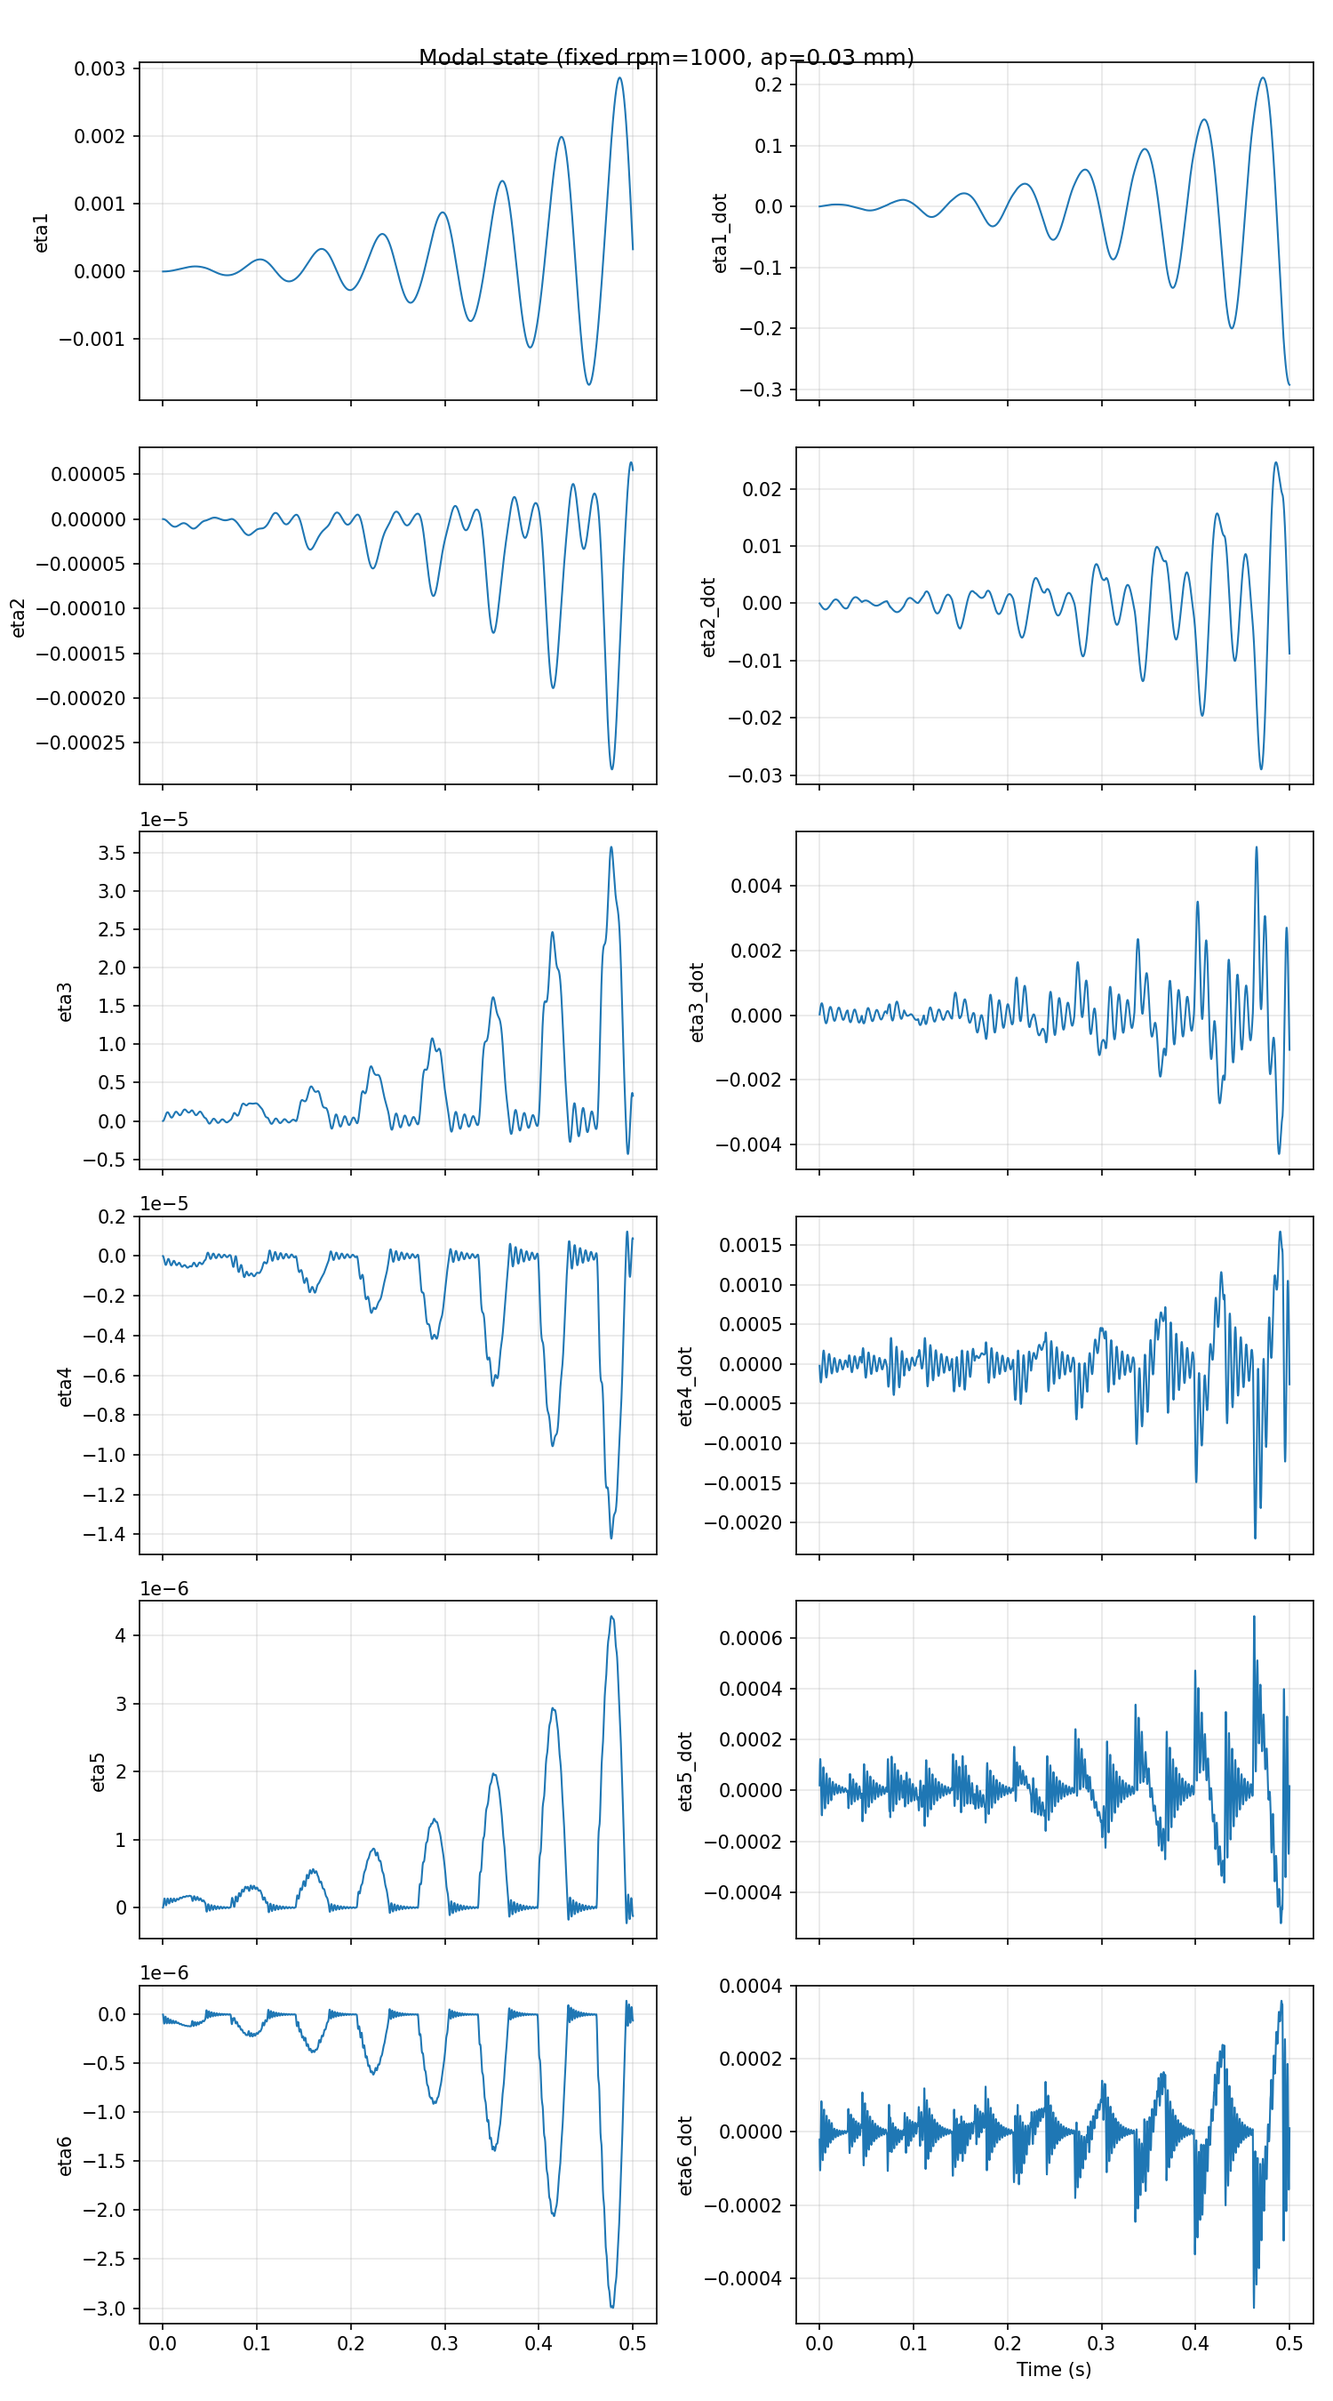
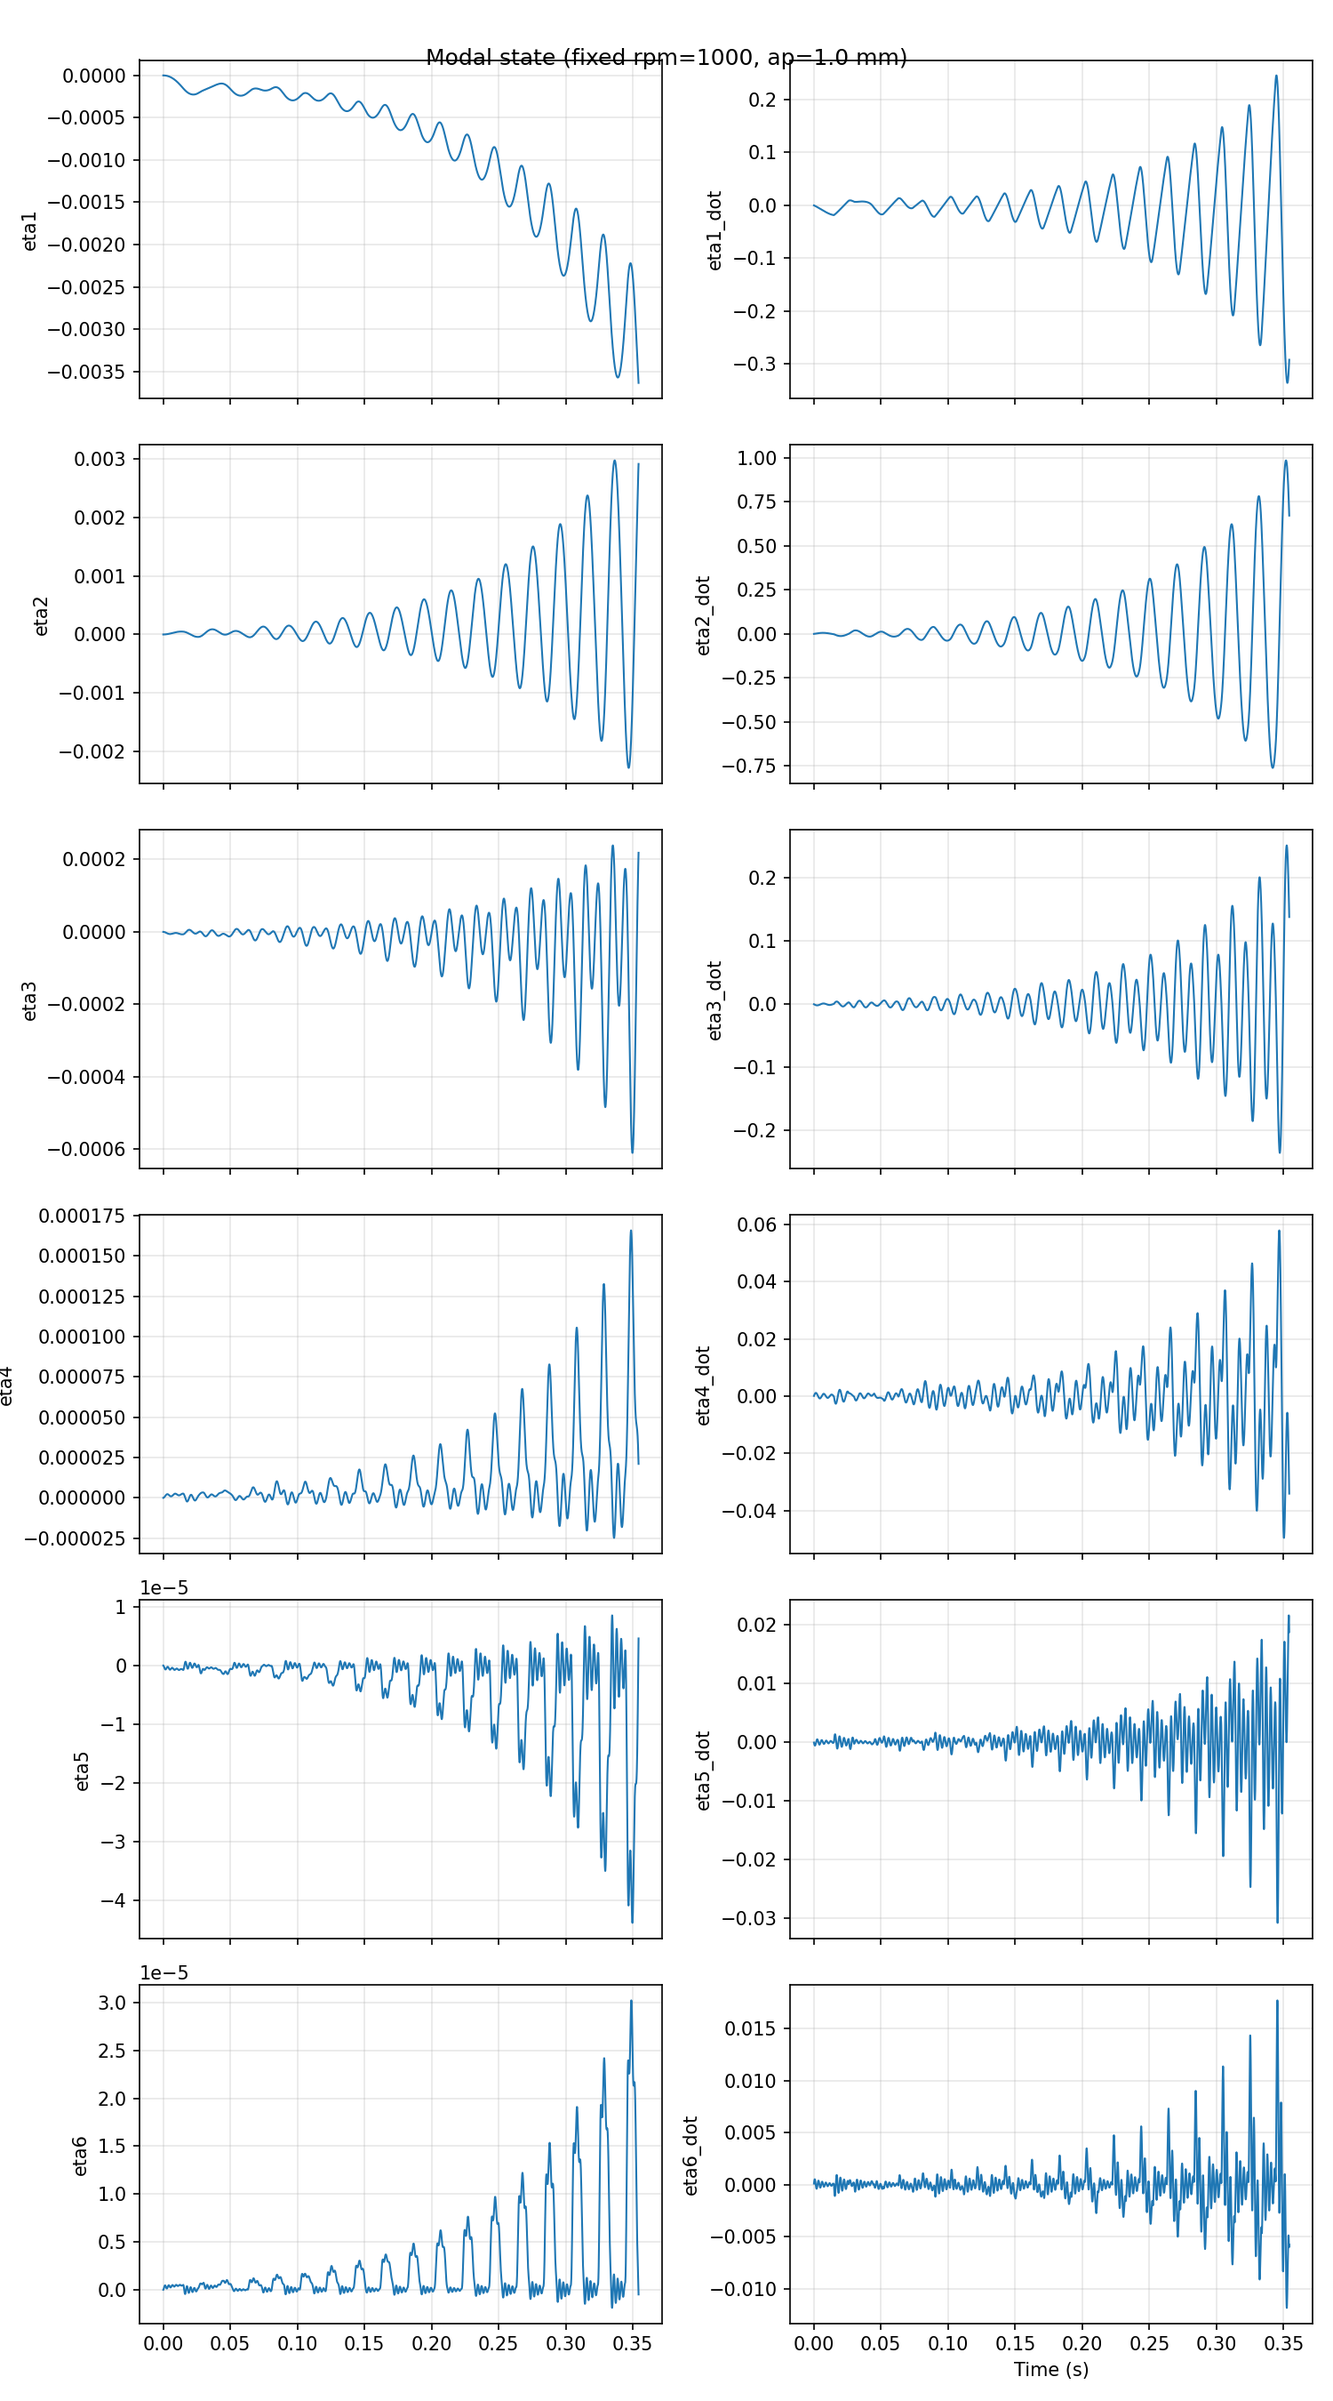
Update ODEControlEnv and PlatePlant for improved observation handling and dynamics
- Changed the clipping behavior in ODEControlEnv's modal_to_physical method to allow unbounded sensor outputs.
- Enhanced PlatePlant's observation structure to include normalized cutter position coordinates, improving the agent's state representation.
- Updated registration and evaluation scripts to reflect changes in observation handling and ensure compatibility with new physical sensor outputs.
- Adjusted parameters in PlatePlant for better milling dynamics, including modifications to feed per tooth and axial depth of cut settings.

diff --git a/custom_rl/plants/plate.py b/custom_rl/plants/plate.py
@@ -151,7 +151,12 @@ class PlatePlant(ODEPlant):
         x_modal = [eta1, eta1_dot, eta2, eta2_dot, ..., etaK, etaK_dot]
 
     Agent observation
-        [w_sensor / w_obs_scale, wdot_sensor / wdot_obs_scale]
+        [
+            w_sensor / w_obs_scale,
+            wdot_sensor / wdot_obs_scale,
+            cutter_x / L1,
+            cutter_y / L2,
+        ]
 
     Default normalized action
         u = [u_omega, u_ap] in [-1, 1]^2
@@ -170,9 +175,9 @@ class PlatePlant(ODEPlant):
         L1: float = 1.0,
         L2: float = 1.0,
         h: float = 0.02,
-        E: float = 113.8e9,
-        nu: float = 0.34,
-        rho: float = 4430.0,
+        E: float = 71.7e9,
+        nu: float = 0.33,
+        rho: float = 2810.0,
         rho_type: str = "volumetric",
         m_max: int = 3,
         n_max: int = 2,
@@ -180,7 +185,7 @@ class PlatePlant(ODEPlant):
         omega_min: float = OMEGA_MIN_RAD_S,
         omega_max: float = OMEGA_MAX_RAD_S,
         ap_min: float = 0.0,
-        ap_max: float = 1,
+        ap_max: float = 20
         ae_min: float = 1.0,
         ae_max: float = 50.0,
         ae_default: float = 25.0,
@@ -191,22 +196,24 @@ class PlatePlant(ODEPlant):
         gamma_r_deg: float = 5.0,
         gamma_a_deg: float = 5.0,
         eta_c_deg: float = 0.0,
-        # Force coefficients [N/mm^2].  Ka=4790.9 is the value identified in
-        # the uploaded thin-wall face-milling paper for Ti-6Al-4V.  Kt/Kr must
-        # be experimentally identified for a full 3D force diagnostic; they are
-        # zero by default because the present scalar plate projection uses Fz.
-        Kt: float = 0.0,
-        Kr: float = 0.0,
-        #Ka: float = 4790.9,
-        Ka: float = 4790.9,
-        Kte: float = 0.0,
-        Kre: float = 0.0,
-        #Kae: float = 360.6,
-        Kae: float = 360.6,
+        # AL7075 face-milling coefficients for square inserts.
+        # Units follow f_nonlinear2_face_milling:
+        #   Kt, Kr, Ka     [N/mm^2]
+        #   Kte, Kre, Kae  [N/mm]
+        # The signs are kept from the identified local force convention.
+        # With the current scalar plate projection mode, only Fz=Fa is projected
+        # into the modal plate equation, so Ka/Kae directly set the transverse
+        # excitation direction and magnitude.
+        Kt: float = 538.127,
+        Kr: float = 185.967,
+        Ka: float = -691.297,
+        Kte: float = 11.253,
+        Kre: float = 6.991,
+        Kae: float = -32.971,
         milling_mode: str = "up",
         theta0: float = 0.0,
-        use_process_damping: bool = True,
-        Ksp: float | None = 30000.0,
+        use_process_damping: bool = False,
+        Ksp: float | None = None,
         mu: float = 0.3,
         VB: float = 0.08,
         lambda_L_deg: float | None = 45.0,
@@ -311,7 +318,11 @@ class PlatePlant(ODEPlant):
         # ------------------------------------------------------------------
         self.sensor_points = tuple((float(xs), float(ys)) for xs, ys in sensor_points)
         self.n_sensors = len(self.sensor_points)
-        self.obs_dim = 2 * self.n_sensors
+        # Observation = physical sensor displacement/velocity plus normalized
+        # cutter location.  The path coordinates are part of the state observed
+        # by the agent because the face-milling excitation and modal projection
+        # depend on where the cutter is on the plate.
+        self.obs_dim = 2 * self.n_sensors + 2
 
         self.w_limit = float(w_limit)
         self.w_obs_scale = float(w_obs_scale)
@@ -629,10 +640,24 @@ class PlatePlant(ODEPlant):
         """Return scaled physical observation for the RL agent."""
         return self.state_to_obs(x_modal)
 
+    def _normalized_cutter_position_obs(self) -> np.ndarray:
+        """Return [cutter_x/L1, cutter_y/L2] from accepted pass kinematics."""
+        cutter_x = self.L1 - self._feed_distance_m - self.x0_cutter
+        cutter_x = float(np.clip(cutter_x, 0.0, self.L1))
+        cutter_y = float(np.clip(self.y_cutter, 0.0, self.L2))
+
+        x_norm = cutter_x / max(self.L1, 1e-12)
+        y_norm = cutter_y / max(self.L2, 1e-12)
+        return np.asarray([x_norm, y_norm], dtype=np.float64)
+
     def state_to_obs(self, x: np.ndarray) -> np.ndarray:
         w_sensor, wdot_sensor = self.modal_to_physical(x)
         obs = np.concatenate(
-            [w_sensor / self.w_obs_scale, wdot_sensor / self.wdot_obs_scale]
+            [
+                w_sensor / self.w_obs_scale,
+                wdot_sensor / self.wdot_obs_scale,
+                self._normalized_cutter_position_obs(),
+            ]
         )
         return np.asarray(obs, dtype=np.float64)
 
@@ -798,8 +823,16 @@ class PlatePlant(ODEPlant):
 
         low[: self.n_sensors] = -self.w_limit / self.w_obs_scale
         high[: self.n_sensors] = self.w_limit / self.w_obs_scale
-        low[self.n_sensors :] = -self.wdot_limit / self.wdot_obs_scale
-        high[self.n_sensors :] = self.wdot_limit / self.wdot_obs_scale
+        low[self.n_sensors : 2 * self.n_sensors] = (
+            -self.wdot_limit / self.wdot_obs_scale
+        )
+        high[self.n_sensors : 2 * self.n_sensors] = (
+            self.wdot_limit / self.wdot_obs_scale
+        )
+
+        # Normalized cutter coordinates [cutter_x/L1, cutter_y/L2].
+        low[2 * self.n_sensors :] = 0.0
+        high[2 * self.n_sensors :] = 1.0
 
         return spaces.Box(low=low, high=high, shape=(self.obs_dim,), dtype=np.float64)
 

diff --git a/custom_rl/eval/pipeline.py b/custom_rl/eval/pipeline.py
@@ -16,7 +16,7 @@ where ``omega`` is spindle speed [rad/s] and ``ap`` is axial depth of cut [mm].
 
 The radial immersion/depth ``ae`` is a fixed process parameter by default.  In
 our current face-milling plant this is ``plant.ae_default``; with the default
-D=50 mm and ae_default=25 mm, this gives ae/D = 0.5 half-immersion milling.
+D=63 mm and ae_default=28 mm, this gives ae/D ≈ 0.444 partial-immersion milling.
 Only when the plant is created with ``control_ae=True`` does the action become::
 
     [omega_rad_s, ap_mm, ae_mm]
@@ -188,8 +188,11 @@ def plant_plot_metadata(env) -> dict[str, Any]:
         "step_dt": float(base_env._step_dt),
         "max_episode_steps": int(base_env.max_episode_steps),
         # Observation convention
-        "observation_type": "scaled_physical_sensor_disp_vel",
-        "observation_description": "[w_sensor/w_obs_scale, wdot_sensor/wdot_obs_scale]",
+        "observation_type": "scaled_physical_sensor_disp_vel_and_normalized_path",
+        "observation_description": (
+            "[w_sensor/w_obs_scale, wdot_sensor/wdot_obs_scale, "
+            "cutter_x/L1, cutter_y/L2]"
+        ),
         "n_sensors": int(getattr(plant, "n_sensors", 0)),
         "sensor_points_m": np.asarray(
             getattr(plant, "sensor_points", []),
@@ -215,6 +218,9 @@ def plant_plot_metadata(env) -> dict[str, Any]:
         "L1_m": _safe_float(getattr(plant, "L1", np.nan)),
         "L2_m": _safe_float(getattr(plant, "L2", np.nan)),
         "h_m": _safe_float(getattr(plant, "h", np.nan)),
+        "E_Pa": _safe_float(getattr(plant, "E", np.nan)),
+        "nu": _safe_float(getattr(plant, "nu", np.nan)),
+        "modal_damping_ratio": _safe_float(getattr(plant, "modal_damping_ratio", np.nan)),
         "rho_input": _safe_float(getattr(plant, "rho", np.nan)),
         "rho_type": str(getattr(plant, "rho_type", "auto")),
         "rho_areal_kg_m2": _safe_float(getattr(plant, "rho_areal", np.nan)),
@@ -234,6 +240,10 @@ def plant_plot_metadata(env) -> dict[str, Any]:
         "Kte_N_mm": _safe_float(getattr(plant, "Kte", np.nan)),
         "Kre_N_mm": _safe_float(getattr(plant, "Kre", np.nan)),
         "Kae_N_mm": _safe_float(getattr(plant, "Kae", np.nan)),
+        "use_process_damping": _safe_bool(getattr(plant, "use_process_damping", False)),
+        "Ksp_N_mm3": _safe_float(getattr(plant, "Ksp", np.nan)),
+        "VB_mm": _safe_float(getattr(plant, "VB", np.nan)),
+        "mu_process_damping": _safe_float(getattr(plant, "mu", np.nan)),
         # ae convention: fixed by default, controlled only if control_ae=True.
         "control_ae": _safe_bool(getattr(plant, "control_ae", False)),
         "ae_default_mm": ae_default,

diff --git a/scripts/plot_results.py b/scripts/plot_results.py
@@ -205,8 +205,10 @@ def _physical_signals_from_episode(ep: dict) -> np.ndarray:
         ep["physical_signals"] = [w_sensor, wdot_sensor]
 
     Fallback:
-        ep["observations"] contains scaled [w_sensor, wdot_sensor], so unscale
-        using metadata["w_obs_scale"] and metadata["wdot_obs_scale"].
+        ep["observations"] begins with scaled [w_sensor, wdot_sensor], so unscale
+        using metadata["w_obs_scale"] and metadata["wdot_obs_scale"].  Any
+        additional observation terms, such as normalized cutter path coordinates,
+        are ignored for physical sensor plots.
 
     Old trajectory files with only ep["states"] are intentionally skipped because
     they may contain modal coordinates and should not be relabeled as physical
@@ -236,11 +238,10 @@ def _physical_signals_from_episode(ep: dict) -> np.ndarray:
         if not np.isfinite(wdot_scale) or abs(wdot_scale) < 1e-12:
             wdot_scale = 1.0
 
-        signals = obs.copy()
-
-        if n_sensors > 0 and signals.shape[1] >= 2 * n_sensors:
-            signals[:, :n_sensors] /= w_scale
-            signals[:, n_sensors : 2 * n_sensors] /= wdot_scale
+        if n_sensors > 0 and obs.shape[1] >= 2 * n_sensors:
+            signals = obs[:, : 2 * n_sensors].copy()
+            signals[:, :n_sensors] *= w_scale
+            signals[:, n_sensors : 2 * n_sensors] *= wdot_scale
         else:
             return np.asarray([], dtype=np.float64)
 

diff --git a/scripts/eval_policy.py b/scripts/eval_policy.py
@@ -63,7 +63,7 @@ def _physical_signal_from_info_or_obs(
     obs_arr = np.asarray(obs, dtype=np.float64).reshape(-1)
     n_sensors = int(metadata.get("n_sensors", obs_arr.size // 2))
 
-    if n_sensors <= 0 or obs_arr.size != 2 * n_sensors:
+    if n_sensors <= 0 or obs_arr.size < 2 * n_sensors:
         return []
 
     w_obs_scale = float(metadata.get("w_obs_scale", 1.0))
@@ -75,9 +75,12 @@ def _physical_signal_from_info_or_obs(
     if not np.isfinite(wdot_obs_scale) or abs(wdot_obs_scale) < 1e-12:
         wdot_obs_scale = 1.0
 
-    physical_signal = obs_arr.copy()
-    physical_signal[:n_sensors] /= w_obs_scale
-    physical_signal[n_sensors:] /= wdot_obs_scale
+    # Observation may contain extra non-sensor terms after the first
+    # 2*n_sensors entries, e.g. [cutter_x/L1, cutter_y/L2].  Only convert
+    # the physical sensor displacement/velocity part here.
+    physical_signal = obs_arr[: 2 * n_sensors].copy()
+    physical_signal[:n_sensors] *= w_obs_scale
+    physical_signal[n_sensors : 2 * n_sensors] *= wdot_obs_scale
 
     return physical_signal.tolist()
 

diff --git a/custom_rl/eval/monte_carlo.py b/custom_rl/eval/monte_carlo.py
@@ -12,7 +12,7 @@ The default plant control is
 
 where ``ap`` is the axial depth of cut [mm].  The radial immersion/depth
 ``ae`` is a fixed plant parameter by default.  In the current face-milling
-plant this is ``plant.ae_default``; with the usual D=50 mm and ae_default=25 mm
+plant this is ``plant.ae_default``; with the usual D=63 mm and ae_default=28 mm
 this corresponds to half immersion, ae/D = 0.5.  Only when the plant is created
 with ``control_ae=True`` should ``ae`` be treated as a third action component.
 """
@@ -101,7 +101,7 @@ def face_milling_process_from_info(info: dict[str, Any], plant: Any | None = Non
 
     1. ``info["ae_mm"]`` if the environment supplied it;
     2. ``plant.ae_default`` if a plant object is supplied;
-    3. ``D_mm/2`` if only cutter diameter is known, corresponding to 50% radial
+    3. ``D_mm/2`` if only cutter diameter is known, corresponding to about 44% radial
        immersion;
     4. NaN if none of the above is available.
 

diff --git a/custom_rl/envs/registration.py b/custom_rl/envs/registration.py
@@ -54,7 +54,7 @@ def make_plate_env(**kwargs: Any) -> ODEControlEnv:
         Kt, Kr, Ka, Kte, Kre, Kae, milling_mode,
         use_process_damping, Ksp, mu, VB,
         sensor_points, w_limit, w_obs_scale, wdot_limit, wdot_obs_scale,
-        y_cutter, x0_cutter, x_pass_end_tol.
+        y_cutter, x0_cutter, x_pass_end_tol, modal_damping_ratio.
 
     Backward-compatible input:
         ac_min/ac_max are accepted and translated to ap_min/ap_max for the plant.
@@ -87,6 +87,7 @@ def make_plate_env(**kwargs: Any) -> ODEControlEnv:
         "n_max",
         "mode_clamped_axis",
         "stiffness_grid_points",
+        "modal_damping_ratio",
         # Action/process bounds
         "omega_min",
         "omega_max",
@@ -236,7 +237,7 @@ def register_envs() -> None:
 
     default_max_steps = estimate_training_episode_steps(
         L1=1.0,
-        feed_per_tooth_mm=0.05,
+        feed_per_tooth_mm=0.10,
         n_teeth=4,
         step_dt=0.002,
     )

diff --git a/scripts/check_plate_random_policy.py b/scripts/check_plate_random_policy.py
@@ -88,10 +88,12 @@ def normalized_to_physical(
 
 
 def obs_labels(n_sensors: int) -> list[str]:
-    """Observation labels after converting scaled obs to physical units."""
+    """Observation labels after converting scaled sensor terms to physical units."""
     return [
         *[f"w_sensor_{i + 1} (m)" for i in range(n_sensors)],
         *[f"wdot_sensor_{i + 1} (m/s)" for i in range(n_sensors)],
+        "cutter_x/L1",
+        "cutter_y/L2",
     ]
 
 
@@ -240,7 +242,7 @@ def plot_rollout(
     for ax in axes[obs_physical.shape[1] :]:
         ax.axis("off")
     axes[min(obs_physical.shape[1] - 1, len(axes) - 1)].set_xlabel("Time (s)")
-    fig.suptitle(f"Physical sensor response ({title_suffix})")
+    fig.suptitle(f"Physical sensor and path observations ({title_suffix})")
     fig.tight_layout()
     fig.savefig(out_dir / "pretrain_physical_sensor_response.png", dpi=150)
     plt.close(fig)

diff --git a/custom_rl/envs/ode_control_env.py b/custom_rl/envs/ode_control_env.py
@@ -181,7 +181,7 @@ class ODEControlEnv(gym.Env):
 
         if hasattr(self.plant, "modal_to_physical"):
             w_sensor, wdot_sensor = self.plant.modal_to_physical(
-                self._state, clip=True
+                self._state, clip=False
             )
             info["w_sensor"] = w_sensor
             info["wdot_sensor"] = wdot_sensor
@@ -221,7 +221,7 @@ class ODEControlEnv(gym.Env):
         info["x_modal"] = self._state.copy()
         if hasattr(self.plant, "modal_to_physical"):
             w_sensor, wdot_sensor = self.plant.modal_to_physical(
-                self._state, clip=True
+                self._state, clip=False
             )
             info["w_sensor"] = w_sensor
             info["wdot_sensor"] = wdot_sensor
